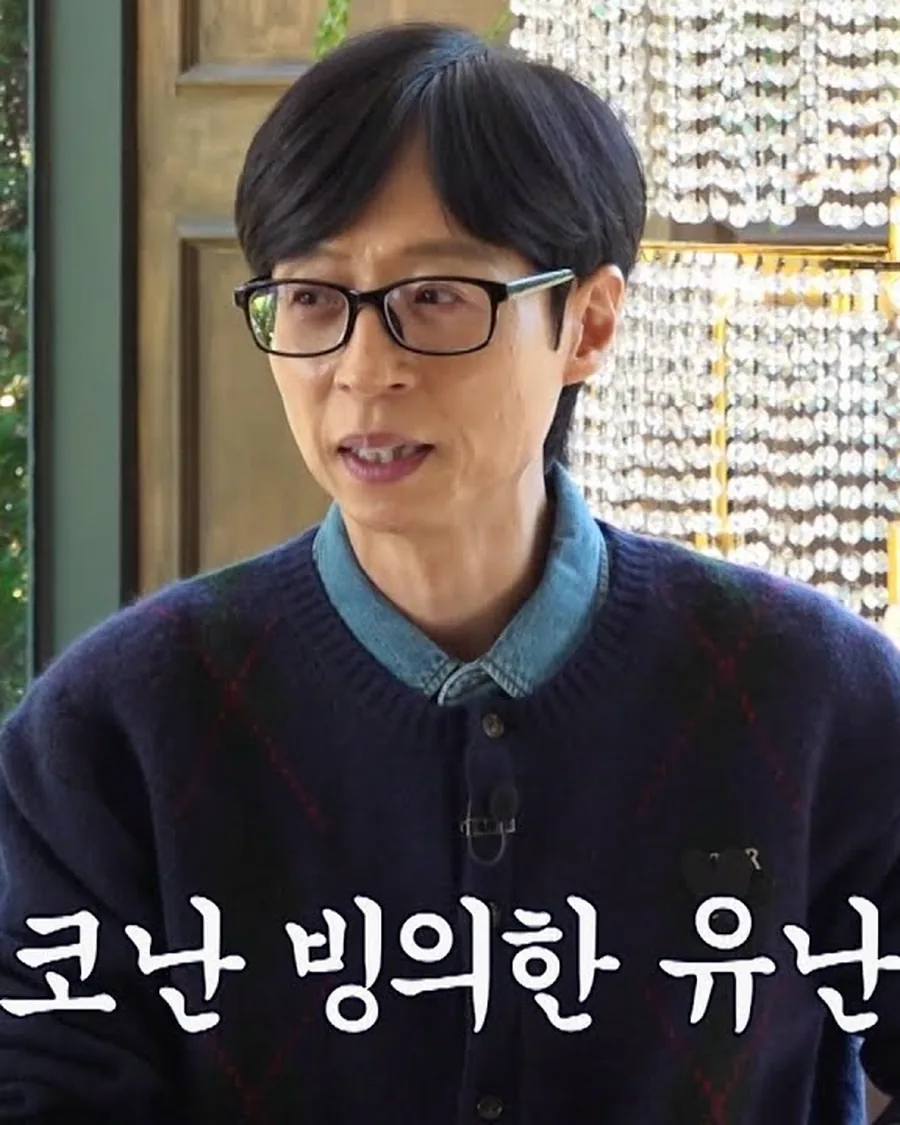
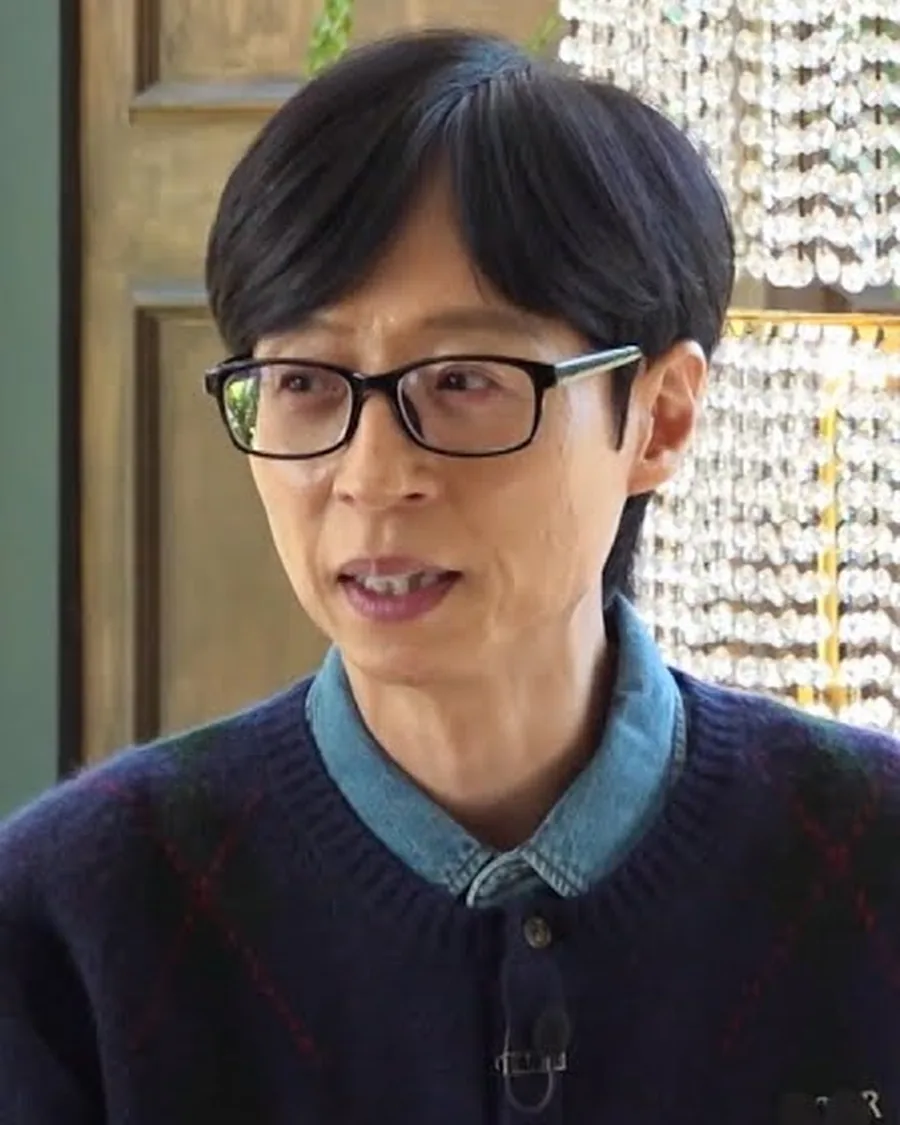
polish: 유재석·육성재 착장 이미지 크롭 정리(방송 자막·로고 제거)

diff --git a/data/looks.js b/data/looks.js
@@ -483,8 +483,8 @@ window.SFP_LOOKS = [
   },
   {
     id: "jaeseok-satur-argyle",
-    image: "assets/looks/jaeseok-satur-argyle.webp?v=2026112001",
-    imageJpg: "assets/looks/jaeseok-satur-argyle.jpg?v=2026112001",
+    image: "assets/looks/jaeseok-satur-argyle.webp?v=2026112007",
+    imageJpg: "assets/looks/jaeseok-satur-argyle.jpg?v=2026112007",
     photo: {label: "SBS 틈만나면", kind: "photo", what: "66회 방송 화면", url: "https://www.youtube.com/watch?v=Ziw_H1EQFFY"},
     imageAlt: "틈만나면 66회, 네이비 아가일 니트 가디건 위에 데님 셔츠 깃을 세워 입은 유재석",
     celeb: "유재석",
@@ -531,8 +531,8 @@ window.SFP_LOOKS = [
   },
   {
     id: "seongjae-polo-nautical",
-    image: "assets/looks/seongjae-polo-nautical.webp?v=2026112001",
-    imageJpg: "assets/looks/seongjae-polo-nautical.jpg?v=2026112001",
+    image: "assets/looks/seongjae-polo-nautical.webp?v=2026112007",
+    imageJpg: "assets/looks/seongjae-polo-nautical.jpg?v=2026112007",
     photo: {label: "SBS 틈만나면", kind: "photo", what: "66회 방송 화면", url: "https://www.youtube.com/watch?v=gYFmpjhKH5o"},
     imageAlt: "틈만나면 66회, 흰 셔츠와 네이비 타이 위에 돛·닻 자수가 들어간 네이비 빅 재킷을 입은 육성재",
     celeb: "육성재",

diff --git a/index.html b/index.html
@@ -381,7 +381,7 @@
 <noscript><p class="noscript">이 사이트의 필터·찜하기·무드 테스트는 JavaScript로 동작합니다. 브라우저에서 JavaScript를 켜 주세요.</p></noscript>
 
 <script src="data/config.js?v=2026112012"></script>
-<script src="data/looks.js?v=2026112012"></script>
-<script src="app.js?v=2026112012" defer></script>
+<script src="data/looks.js?v=2026112013"></script>
+<script src="app.js?v=2026112013" defer></script>
 </body>
 </html>
